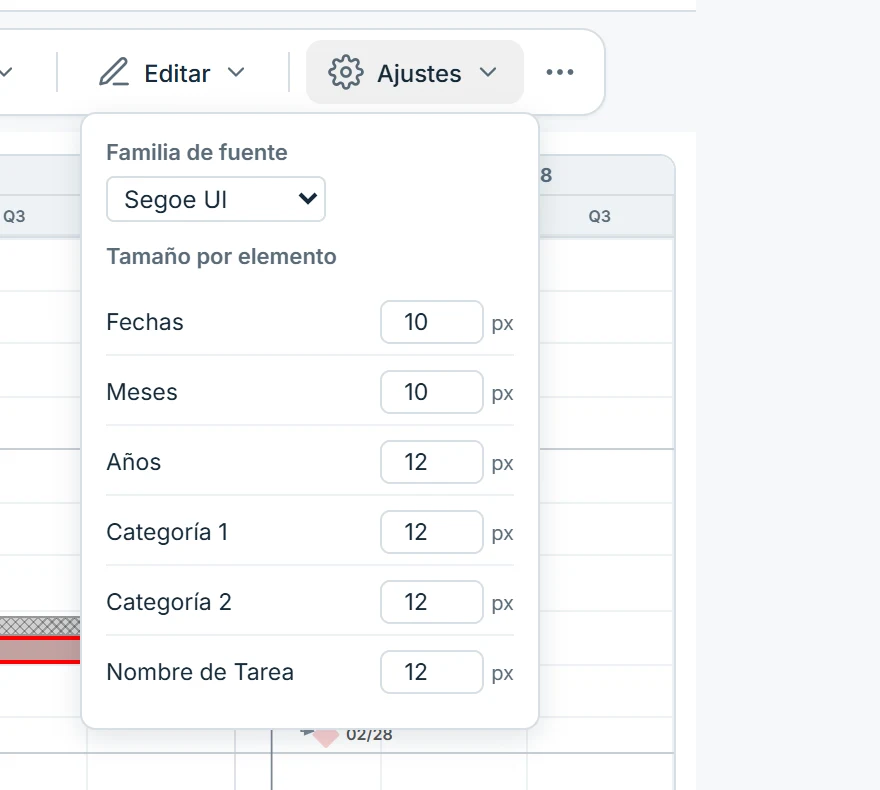
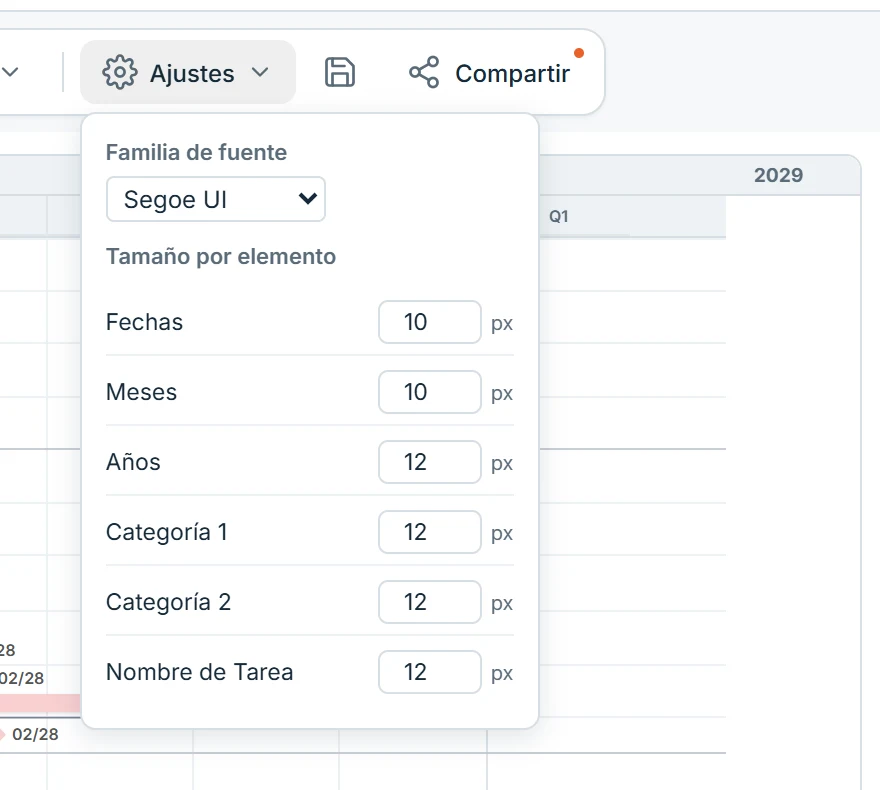
Manual: figura de Ajustes del Gantt recapturada (viewport más ancho)

diff --git a/docs/manual/tools/capturar.js b/docs/manual/tools/capturar.js
@@ -611,7 +611,7 @@ FIGS['65'] = async b => {           // Segmentador de escenario en la Tabla de D
   await p.close();
 };
 FIGS['66'] = async b => {           // Ajustes del Gantt: fuente y tamaños
-  const p = await abrir(b); await gantt(p); await click(p, '#btnFontMenu'); await sleep(400);
+  const p = await abrir(b, { w: 1700 }); await gantt(p); await click(p, '#btnFontMenu'); await sleep(400);
   const m = await rectOf(p, '#fontMenuPanel'), t = await rectOf(p, '#btnFontMenu');
   await shot(p, 'fig-66-gantt-ajustes-fuente', { clip: C(Math.max(0, Math.min(t.x, m.x) - 40), t.y - 20, Math.max(m.w, 340) + 100, m.y + m.h - t.y + 50) }); await p.close();
 };
